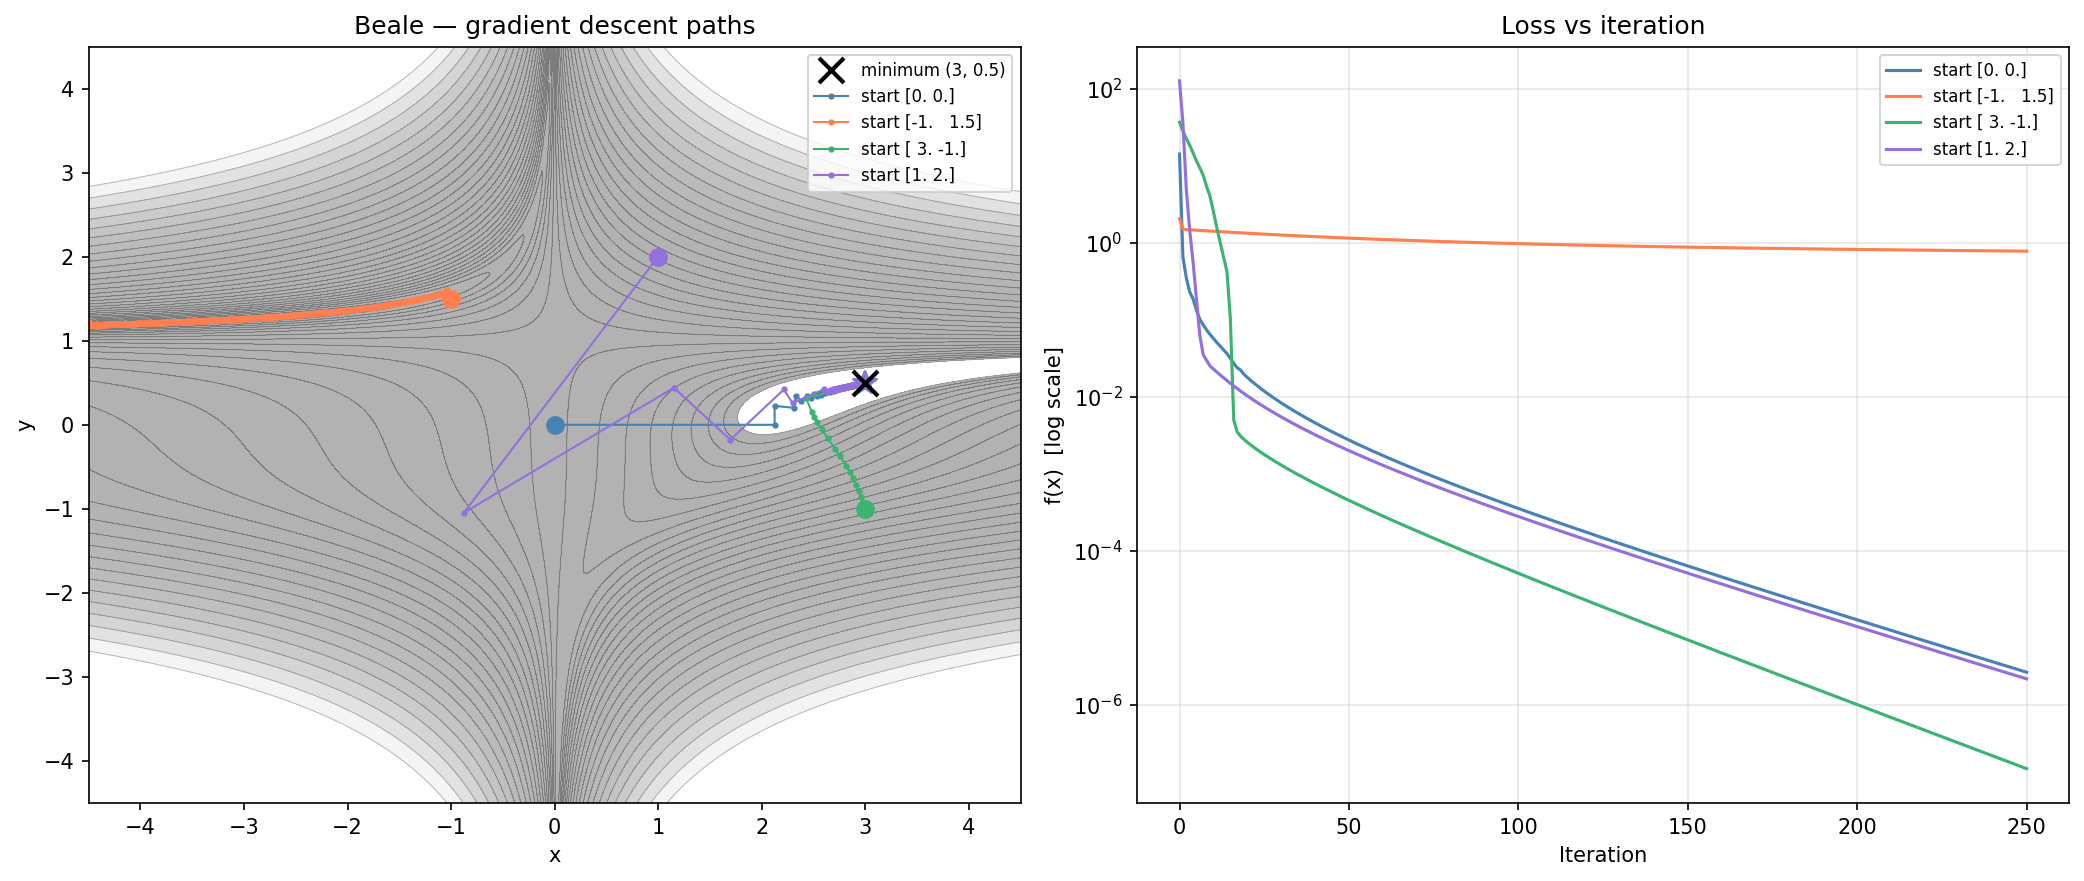
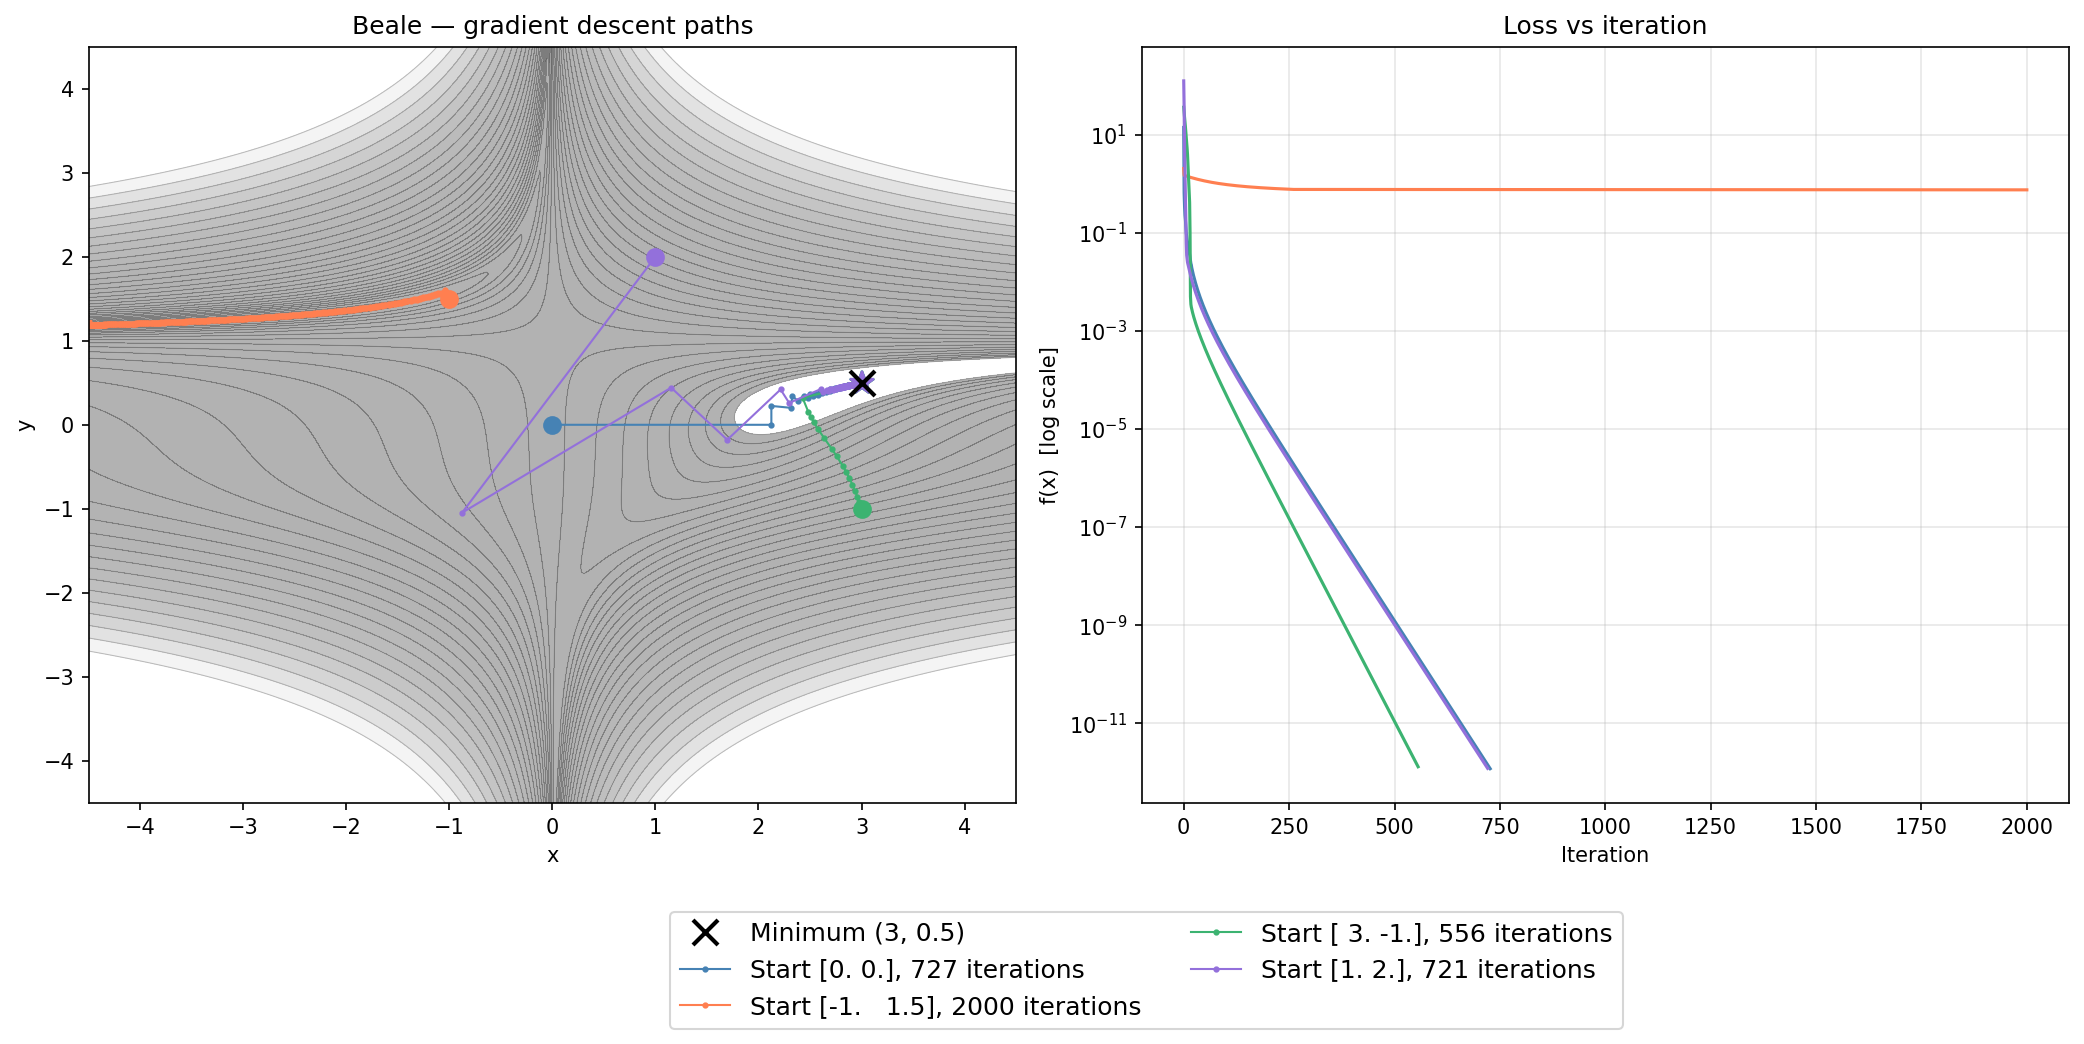
Add files via upload

diff --git a/examples/gradient_descent/run_gradient_descent_himmelblau.py b/examples/gradient_descent/run_gradient_descent_himmelblau.py
@@ -14,7 +14,7 @@ def himmelblau_grad(x):
     ])
 
 starts = [
-    np.array([0.0, 0.0]),
+    np.array([0.0, 0.5]),
     np.array([-1.0, 3.0]),
     np.array([2.0, -2.0]),
     np.array([-3.0, -1.0]),
@@ -28,8 +28,8 @@ Z = (X**2 + Y - 11)**2 + (X + Y**2 - 7)**2
 
 fig, (ax1, ax2) = plt.subplots(1, 2, figsize=(14, 6))
 
-ax1.contourf(X, Y, Z, levels=np.logspace(0, 3, 30), cmap="gray", alpha=0.3)
-ax1.contour(X, Y, Z, levels=np.logspace(0, 3, 30), colors="gray", alpha=0.5, linewidths=0.5)
+ax1.contourf(X, Y, Z, levels=np.logspace(0, 3, 30), cmap="gray", alpha=0.2)
+ax1.contour(X, Y, Z, levels=np.logspace(0, 3, 30), colors="gray", alpha=0.2, linewidths=0.5)
 
 for x0, color in zip(starts, colors):
     result = gradient_descent(himmelblau, himmelblau_grad, x0, max_iter = 2000)
@@ -44,24 +44,26 @@ for x0, color in zip(starts, colors):
     losses = [himmelblau(x) for x in result.history]
 
     ax1.plot(history[:, 0], history[:, 1], "o-", color=color,
-             markersize=2, linewidth=1, label=f"start {x0}")
+             markersize=2, linewidth=1, label=f"Start {x0}, {result.nit} iterations")
     ax1.plot(history[0, 0], history[0, 1], "o", color=color, markersize=8)
-    ax1.plot(history[-1, 0], history[-1, 1], "*", color=color, markersize=12)
+    ax1.plot(history[-1, 0], history[-1, 1], marker = "*", color=color, markersize = 12)
+    handles, labels = ax1.get_legend_handles_labels()
     
     ax2.plot(losses, color=color, linewidth=1.5, label=f"start {x0}")
 
 ax1.set_title("Himmelblau — gradient descent paths")
 ax1.set_xlabel("x")
 ax1.set_ylabel("y")
-ax1.legend(fontsize=8)
 
 ax2.set_yscale("log")
 ax2.set_title("Loss vs iteration")
 ax2.set_xlabel("Iteration")
 ax2.set_ylabel("f(x)  [log scale]")
-ax2.legend(fontsize=8)
+# ax2.legend(fontsize=8)
 ax2.grid(True, alpha=0.3)
+fig.legend(handles, labels, loc='upper center', bbox_to_anchor=(0.55, -0.01), fontsize = 12, ncol = 2)
+
 
 plt.tight_layout()
-plt.savefig("examples/himmelblau_gradient_descent_paths.png", dpi=150, bbox_inches="tight")
+plt.savefig("himmelblau_gradient_descent_paths.png", dpi=150, bbox_inches="tight")
 plt.show()

diff --git a/examples/gradient_descent/run_gradient_descent_beale.py b/examples/gradient_descent/run_gradient_descent_beale.py
@@ -32,7 +32,7 @@ fig, (ax1, ax2) = plt.subplots(1, 2, figsize=(14, 6))
 
 ax1.contourf(X, Y, Z, levels=np.logspace(0, 4, 30), cmap="gray", alpha=0.3)
 ax1.contour(X, Y, Z, levels=np.logspace(0, 4, 30), colors="gray", alpha=0.5, linewidths=0.5)
-ax1.plot(3, 0.5, "kx", markersize=12, markeredgewidth=2, label="minimum (3, 0.5)", zorder=5)
+ax1.plot(3, 0.5, "kx", markersize=12, markeredgewidth=2, label="Minimum (3, 0.5)", zorder=5)
 
 for x0, color in zip(starts, colors):
     result = gradient_descent(beale, beale_grad, x0, max_iter = 2000)
@@ -47,11 +47,12 @@ for x0, color in zip(starts, colors):
     losses = [beale(x) for x in result.history]
 
     ax1.plot(history[:, 0], history[:, 1], "o-", color=color,
-             markersize=2, linewidth=1, label=f"start {x0}")
+             markersize=2, linewidth=1, label=f"Start {x0}, {result.nit} iterations")
     ax1.plot(history[0, 0], history[0, 1], "o", color=color, markersize=8)
     ax1.plot(history[-1, 0], history[-1, 1], "*", color=color, markersize=12)
+    handles, labels = ax1.get_legend_handles_labels()
     
-    ax2.plot(losses, color=color, linewidth=1.5, label=f"start {x0}")
+    ax2.plot(losses, color=color, linewidth=1.5)
 
 
 ax1.set_xlim(-4.5, 4.5)
@@ -59,16 +60,15 @@ ax1.set_ylim(-4.5, 4.5)
 ax1.set_title("Beale — gradient descent paths")
 ax1.set_xlabel("x")
 ax1.set_ylabel("y")
-ax1.legend(fontsize=8)
-
 
 ax2.set_yscale("log")
 ax2.set_title("Loss vs iteration")
 ax2.set_xlabel("Iteration")
 ax2.set_ylabel("f(x)  [log scale]")
-ax2.legend(fontsize=8)
 ax2.grid(True, alpha=0.3)
 
+fig.legend(handles, labels, loc='upper center', bbox_to_anchor=(0.55, -0.01), fontsize = 12, ncol = 2)
+
 plt.tight_layout()
-plt.savefig("examples/beale_gradient_descent_paths.png", dpi=150, bbox_inches="tight")
+plt.savefig("beale_gradient_descent_paths.png", dpi=150, bbox_inches="tight")
 plt.show()